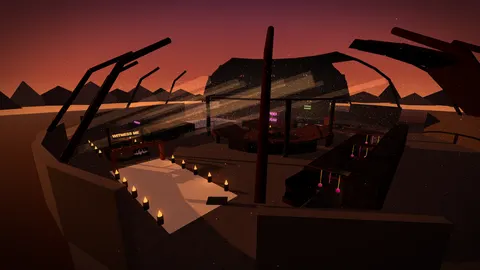
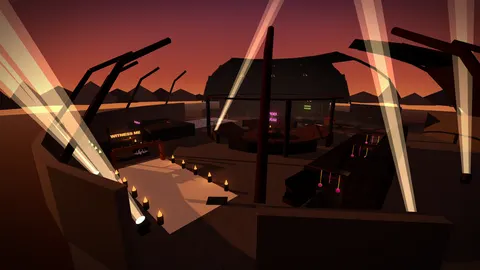
Default feel = the owner's tuning (wobble 70 %, 220 ms, 10 % on movement); credits as a scrolling ticker; Murderdome art pass: nothing floats (flag, steering column, tire ring chains, signs), soft dust motes; tools/floatcheck.js
Claude-Session: https://claude.ai/code/session_013cEUyKFWfXQwnZSdKsgxWE

diff --git a/src/maps.js b/src/maps.js
@@ -1213,7 +1213,7 @@
       for (let z = z0; z <= z1; z += 1.2) box(o, v3(GX, 3.9, z), v3(0.5, 0.1, 0.05), 'scrap');   // seat frames welded on top
       surf(o, HARD); o.obstacle = { a: v3(GX, 0, z0), b: v3(GX, 0, z1), under: 3.2, over: 3.64 };
       O('Blood Oath Gantry opening', 'gap', { gap: { c: v3(GX, 1.6, 33), n: v3(1, 0, 0), hu: 3.5, hv: 1.54, u: v3(0, 0, 1) } });
-      const fl = O('Skull Flag', 'deco'); fl.vis.push({ shape: 'sign', c: v3(GX + 0.65, 2.6, 33), w: 2.4, h: 1.2, ry: Math.PI / 2, mat: 'skullFlag' }); }   // the Dirtbag FPV flag
+      const fl = O('Skull Flag', 'deco'); fl.vis.push({ shape: 'sign', c: v3(GX + 0.62, 2.62, 33), w: 2.4, h: 1.2, ry: Math.PI / 2, mat: 'skullFlag' }); for (const z of [31.85, 34.15]) pipe(fl, v3(GX + 0.6, 3.2, z), v3(GX + 0.63, 3.24, z), 0.015, 'rebar', { noCollide: true }); }   // the Dirtbag FPV flag, wired to the beam's face   // the Dirtbag FPV flag
     for (let x = -1; x <= 13; x += 3.5) for (const z of [28.6, 37.4]) barrel(x, z, z < 30 && (x === -1 || x === 9.5));
     zones.push({ shape: 'zone', mat: 'sand', c: v3(5, 0.006, 33), h: v3(10, 0, 4.5) });
 
@@ -1245,6 +1245,7 @@
         for (const s of [-1, 1]) box(cab, v3(x, (WY0 + WY1) / 2, Z + s * (WW + (wz - WW) / 2)), v3(0.06, (WY1 - WY0) / 2, (wz - WW) / 2), 'busYellow');
         O('War Rig Cab window', 'gap', { gap: { c: v3(x, (WY0 + WY1) / 2, Z), n: v3(1, 0, 0), hu: WW - 0.07, hv: (WY1 - WY0) / 2 - 0.07, u: v3(0, 0, 1) } }); }
       surf(cab, HARD); ring('Steering Wheel Gate', v3(7.7, 2.15, Z), 0.5, v3(1, 0, 0), 0.04, 'carBlack', HARD);
+      { const sc = O('Steering Column', 'deco'); pipe(sc, v3(7.7, 1.66, Z), v3(7.95, 0.98, Z), 0.045, 'carBlack', { noSurvey: true }); surf(sc, HARD); }
       const land = O('Landing Sand', 'deco'); box(land, v3(2.2, 0.012, Z), v3(2.6, 0.012, 2.6), 'sand'); surf(land, SAND);
       const pl = O('Scrap Plates', 'deco'); for (const [x, z] of [[-1.2, Z - 2.4], [-0.6, Z + 2.2], [5.6, Z + 2.8], [-1.6, Z]]) box(pl, v3(x, 0.015, z), v3(0.9, 0.015, 0.7), 'plate', rnd() * 3); surf(pl, PLATE);
       zones.push({ shape: 'zone', mat: 'dirt', c: v3(12, 0.006, Z), h: v3(12, 0, 4) }); }
@@ -1264,7 +1265,7 @@
         box(o, v3(-16.5, 1.35, Z0 - 2.65), v3(0.36, 0.45, 0.06), 'carBlack'); o.vis.push({ shape: 'sign', c: v3(-16.5, 1.35, Z0 - 2.58), w: 0.66, h: 0.5, ry: 0, mat: 'signCasino', glow: true }); }
       { const o = O('Dead Fridges', 'deco'); box(o, v3(-19, 0.9, Z0 + 0.2), v3(0.4, 0.9, 0.36), 'fridge', 0.2); box(o, v3(-20.4, 0.38, Z0 - 1.4), v3(0.9, 0.38, 0.36), 'fridge', 1.1); surf(o, HARD); }
       for (const [x, z, h] of [[0, Z0 - 0.5, 1.6], [-4, Z0 - 0.5, 0.9], [-9, Z0 - 5, 1.7], [-13, Z0 - 0.4, 1.0], [-17.5, Z0 - 6, 1.5]]) { const o = O('Bandana Flag', 'deco'); pipe(o, v3(x, 0, z), v3(x, h, z), 0.02, 'oldWood'); o.vis.push({ shape: 'sign', c: v3(x + 0.26, h - 0.18, z), w: 0.5, h: 0.32, ry: 0, mat: 'bandana' }); }
-      const sg = O('Dirtbag Forever Sign', 'deco'); sign(sg, v3(-8, 4.6, -40.6), 4.2, 2.1, 0, 'signDirtbag', false);
+      const sg = O('Dirtbag Forever Sign', 'deco'); sign(sg, v3(-8, 4.6, -40.6), 4.2, 2.1, 0, 'signDirtbag', false); for (const x of [-10.02, -5.98]) pipe(sg, v3(x, 0, -40.7), v3(x, 5.75, -40.7), 0.07, 'rustRed'); box(sg, v3(-8, 3.5, -40.7), v3(2.1, 0.05, 0.05), 'rustRed', 0, 0, 0, { noSurvey: true });
       lamp('Lounge Neon', v3(-8, 4, -38.5), 0xd8ff8a, 9, 18); lamp('Lounge Lamp', v3(-12, 2.6, -29), 0xffb070, 7, 12);
       zones.push({ shape: 'zone', mat: 'oilCarpet', c: v3(-9, 0.006, Z0 - 4), h: v3(12, 0, 6) }); }
 
@@ -1320,19 +1321,20 @@
       O('Pit Exit Door', 'gap', { gap: { c: v3(DX, DH / 2, Z1), n: v3(0, 0, 1), hu: DW - 0.06, hv: DH / 2 - 0.06, u: v3(1, 0, 0) } });
       { const o = O('Deck Columns', 'pole'); for (const [x, z] of [[-28, 17], [-20, 17], [-20, 23.5]]) pipe(o, v3(x, 0, z), v3(x, Y - t, z), 0.16, 'rustRed'); }
       ring('Pit Tire Ring 1', v3(-26.5, 1.25, HZ), 0.5, v3(1, 0, 0), 0.11, 'tire', SOFT); ring('Pit Tire Ring 2', v3(-29.5, 1.25, 21.5), 0.5, v3(0, 0, 1), 0.11, 'tire', SOFT);
+      { const o = O('Tire Ring Chains', 'deco'); for (const [x, z, ux, uz] of [[-26.5, HZ, 0, 1], [-29.5, 21.5, 1, 0]]) for (const s of [-1, 1]) pipe(o, v3(x + ux * s * 0.32, 1.25 + 0.38, z + uz * s * 0.32), v3(x + ux * s * 0.42, Y - t, z + uz * s * 0.42), 0.018, 'chain', { noSurvey: true }); surf(o, SOFT); }
       { const o = O('Swinging Tires', 'deco'); [[DX - 0.6, 22.8], [DX + 0.6, 23.6], [DX - 0.5, 24.4], [DX + 0.5, 25.1]].forEach(([x, z]) => { pipe(o, v3(x, Y - t, z), v3(x, 1.75, z), 0.02, 'chain', { noSurvey: true }); pipe(o, v3(x - 0.15, 1.4, z), v3(x + 0.15, 1.4, z), 0.36, 'tire'); }); surf(o, SOFT); }
       { const o = O('Hanging Wires', 'deco'); for (let i = 0; i < 9; i++) { const x = X0 + 1 + rnd() * (X1 - X0 - 2), z = Z0 + 1 + rnd() * (Z1 - Z0 - 2); if (Math.hypot(x - HX, z - HZ) < 2) continue; pipe(o, v3(x, Y - t, z), v3(x + (rnd() - 0.5) * 0.3, Y - 0.9 - rnd() * 0.8, z), 0.012, 'carBlack', { noSurvey: true }); } surf(o, SOFT); }
       { const o = O('Emergency Lights', 'deco'); for (const [x, z] of [[X0 + 0.2, 18], [X1 - 0.2, 22], [-24, Z0 + 0.2]]) box(o, v3(x, 2.6, z), v3(0.14, 0.1, 0.14), 'emergency', 0, 0, 0, { noCollide: true, glow: true }); }
       lamp('Pit Emergency Light', v3(-27, 2.9, 18), 0xff3a22, 10, 13); lamp('Pit Emergency Light', v3(-20, 2.9, 23), 0xff3a22, 10, 13);
-      { const o = O('Sparks', 'deco'); for (let i = 0; i < 12; i++) box(o, v3(X1 - 0.3, 0.3 + rnd() * 1.2, 15 + rnd() * 2), v3(0.02, 0.02, 0.02), 'fireCore', rnd() * 3, 0, 0, { noCollide: true, glow: true }); }
-      const sg = O("Sugar's Pit Sign", 'deco'); sign(sg, v3(-24, Y + 1.0, Z1 + 0.2), 4.4, 1.1, 0, 'signSugar', false); pipe(sg, v3(-26.4, Y, Z1 + 0.2), v3(-26.4, Y + 1.6, Z1 + 0.2), 0.05, 'rebar'); pipe(sg, v3(-21.6, Y, Z1 + 0.2), v3(-21.6, Y + 1.6, Z1 + 0.2), 0.05, 'rebar'); }
+      { const o = O('Sparks', 'deco', { float: true }); for (let i = 0; i < 12; i++) box(o, v3(X1 - 0.3, 0.3 + rnd() * 1.2, 15 + rnd() * 2), v3(0.02, 0.02, 0.02), 'fireCore', rnd() * 3, 0, 0, { noCollide: true, glow: true }); }
+      const sg = O("Sugar's Pit Sign", 'deco'); sign(sg, v3(-24, Y + 1.0, Z1 + 0.2), 4.4, 1.1, 0, 'signSugar', false); pipe(sg, v3(-26.22, Y, Z1 + 0.2), v3(-26.22, Y + 1.6, Z1 + 0.2), 0.05, 'rebar'); pipe(sg, v3(-21.78, Y, Z1 + 0.2), v3(-21.78, Y + 1.6, Z1 + 0.2), 0.05, 'rebar'); }
 
     // ---- 8 Witness Me: out of the pit, a long drag east, slightly uphill, to the exhaust-stack finish, barrels both sides
     { const o = O('Witness Me Ramp', 'deco'); box(o, v3(-20, 0.36, 33), v3(7.2, 0.06, 3.2), 'plate', 0, 0, Math.atan2(0.7, 14.4), { noSurvey: true }); box(o, v3(-10.5, 0.36, 33), v3(2.6, 0.36, 3.2), 'plate'); surf(o, PLATE); }
     { const FX = -10, za = 30.2, zb = 35.8, Y0 = 0.72, YB = 3.5, o = O('Witness Me Finish', 'overunder'); for (const z of [za, zb]) { pipe(o, v3(FX, Y0, z), v3(FX, 5.8, z), 0.22, 'rustRed'); pipe(o, v3(FX, 5.6, z), v3(FX, 6.2, z), 0.26, 'carBlack'); }
       pipe(o, v3(FX, YB, za), v3(FX, YB, zb), 0.12, 'rebar'); surf(o, HARD); o.obstacle = { a: v3(FX, 0, za), b: v3(FX, 0, zb), under: YB - 0.12, over: YB + 0.12 };
       O('Witness Me Finish opening', 'gap', { gap: { c: v3(FX, (Y0 + YB - 0.12) / 2, 33), n: v3(1, 0, 0), hu: (zb - za) / 2 - 0.3, hv: (YB - 0.12 - Y0) / 2 - 0.06, u: v3(0, 0, 1) } });
-      sign(o, v3(FX, 4.5, 33), 4.6, 1.1, -Math.PI / 2, 'signWitness'); lamp('Finish Glow', v3(FX + 0.5, 4.4, 33), 0xffa040, 6, 12); }
+      sign(o, v3(FX, 4.5, 33), (zb - za) - 0.4, 1.1, -Math.PI / 2, 'signWitness'); lamp('Finish Glow', v3(FX + 0.5, 4.4, 33), 0xffa040, 6, 12); }
     for (let x = -28; x <= -14; x += 3.5) for (const z of [29.2, 36.8]) barrel(x, z, false);
     zones.push({ shape: 'zone', mat: 'crackedConcrete', c: v3(0, 0.004, 0), h: v3(RW, 0, RW) });
     zones.unshift(zones.pop());   // the cracked floor first, the patches on top of it

diff --git a/src/menus.js b/src/menus.js
@@ -214,6 +214,12 @@ addEventListener('pointerdown', e => { if (e.target.id === 'gPreview') { gPrev.d
 addEventListener('pointermove', e => { const d = gPrev.drag; if (!d) return; gPrev.yaw = d.yaw - (e.clientX - d.x) * 0.01; gPrev.pitch = Math.max(-1.3, Math.min(1.4, d.pitch + (e.clientY - d.y) * 0.01)); });
 addEventListener('pointerup', () => { gPrev.drag = null; });
 window.__pwGarage = gPrev;
+// The credits on the main menu: one line that scrolls (owner, 2026-11-18: room to grow). The text is doubled so the loop
+// has no seam, and the speed stays the same however long the credits get (about 40 px a second).
+function creditsTicker() { const tr = $('#menuThanks .tkTrack'); if (!tr || tr.dataset.on) return; const it = tr.querySelector('.tkItem'); if (!it) return;
+  tr.dataset.on = '1'; tr.appendChild(it.cloneNode(true)).setAttribute('aria-hidden', 'true');
+  const set = () => { const w = it.getBoundingClientRect().width; if (w > 0) tr.style.setProperty('--tkDur', Math.max(15, w / 40).toFixed(1) + 's'); }; set(); addEventListener('resize', set); setTimeout(set, 1500); }
+creditsTicker();
 // ============================================================ Advanced physics (a popup from the Garage)
 // Everything that shapes how the whoop flies beyond the parts and the PIDs, in tabs, with sliders and button rows rather
 // than drop-downs. The Betaflight tab uses Betaflight's own settings (src/sim.js FlightController; imported from a diff all
@@ -221,7 +227,7 @@ window.__pwGarage = gPrev;
 const ADV = { open: false, tab: 'feel' };
 // [tune key, name, min, max, step, shown = value × this, unit, what it does, default]
 const ADV_SL = {
-  wobble: [['shake', 'Wobble', 0, 4, 0.05, 100, '%', 'Air that is never still: the wobble a light whoop has in its own air. 0 = the old glassy-smooth sim; the default (225%) is fitted to a real 30000KV whoop\'s Blackbox logs', FEEL_DEF.shake],
+  wobble: [['shake', 'Wobble', 0, 4, 0.05, 100, '%', 'Air that is never still: the wobble a light whoop has in its own air. 0 = the old glassy-smooth sim; the default (70%) is the owner\'s own tuning; 225% matches a real 30000KV whoop\'s Blackbox logs', FEEL_DEF.shake],
     ['shakeTau', 'Wobble smoothness', 0.03, 0.4, 0.01, 1000, ' ms', 'How slowly the wobble changes: longer is a lazy float, shorter a quick shudder', FEEL_DEF.shakeTau],
     ['shakeMove', 'Wobble on movement', 0, 1, 0.1, 100, '%', '100%: the wobble comes with turns and speed and a still hover stays calm; 0%: the same wobble all the time', FEEL_DEF.shakeMove],
     ['loopDelayMs', 'Motor / ESC delay', 0, 6, 0.5, 1, ' ms', 'A real quad answers a few ms late (DShot, the ESC, the motor). More is softer but rings; the Feel Lab measured about 3 ms on a real whoop', FEEL_DEF.loopDelayMs],
@@ -264,8 +270,8 @@ function renderAdv() {
   if (ADV.tab === 'feel') h = `<p class="note">How the whoop behaves in the air, on top of your parts. 100% is the sim as built from the parts (Weight defaults to 90%: real whoops hover like that in their Blackbox logs); these change only how the physics feels, not the parts or the Garage figures.</p>
     ${FEEL.map(([k, name, help]) => { const v = Math.round((+tune[k] || (tune[k] === 0 ? 0 : 1)) * 100), [lo, hi] = S.FEEL_KEYS[k]; return `<label class="advS" title="${help}"><span>${name} <b id="gFeelV-${k}">${v}%</b></span><input type=range data-feel="${k}" min=${lo * 100} max=${hi * 100} step=5 value="${v}"></label>`; }).join('')}
     <div class="row"><button data-advreset="feel" class="ghost">Feel back to the defaults</button></div>`;
-  if (ADV.tab === 'wobble') h = `<p class="note">The life a real whoop has in the air, fitted from real Blackbox logs (Tools &amp; labs → Feel Lab). The defaults are fitted to a real 30000KV whoop: its wobble when moving, its lag (no extra delay needed). A still hover stays calm.</p>
-    ${ADV_SL.wobble.map(advSlider).join('')}<div class="row"><button data-advreset="wobble" class="ghost">Back to the defaults</button><button data-advpreset="logfit" class="ghost" title="The owner's Air2 build answered about 4 ms later than the 30000KV whoop: the same wobble with 3 ms of motor / ESC delay">Laggier whoop (+3 ms)</button><button data-advpreset="calm" class="ghost" title="The old smooth sim with a hint of wobble">Calm</button></div>`;
+  if (ADV.tab === 'wobble') h = `<p class="note">The life a real whoop has in the air, fitted from real Blackbox logs (Tools &amp; labs → Feel Lab). The defaults are the owner\'s own tuning. "Real 30000KV whoop" is what a real whoop\'s Blackbox logs measured: its wobble when moving, its lag (no extra delay needed).</p>
+    ${ADV_SL.wobble.map(advSlider).join('')}<div class="row"><button data-advreset="wobble" class="ghost">Back to the defaults</button><button data-advpreset="fit30k" class="ghost" title="Fitted to a real 30000KV whoop's Blackbox logs: wobble 225 % at 100 ms, on movement">Real 30000KV whoop</button><button data-advpreset="logfit" class="ghost" title="The owner's Air2 build answered about 4 ms later than the 30000KV whoop: the same wobble with 3 ms of motor / ESC delay">Laggier whoop (+3 ms)</button><button data-advpreset="calm" class="ghost" title="The old smooth sim with a hint of wobble">Calm</button></div>`;
   if (ADV.tab === 'bf') h = `<p class="note">The flight controller's filters, as Betaflight has them. Lower cutoffs are smoother and laggier; a dynamic lowpass opens with the throttle. The sim has no motor noise to filter, so here they shape only the lag and the softness. Untouched: one 180 Hz gyro filter and one 90 Hz D-term filter, the sim as it always was.</p>
     ${ADV_SL.filters.slice(0, 3).map(advSlider).join('')}
     <div class="advPair"><span>Gyro lowpass 1 type</span>${advSeg('gyroLpfType', [['PT1', 'PT1'], ['PT2', 'PT2'], ['PT3', 'PT3'], ['BIQUAD', 'BIQUAD']], tune.gyroLpfType || 'PT1', 'gyro_lpf1_type')}</div>
@@ -300,7 +306,7 @@ document.addEventListener('click', e => {
   if (t.dataset.advset) { const k = t.dataset.advset, v = t.dataset.v; tune[k] = /^-?\d+(\.\d+)?$/.test(v) ? +v : v; saveTune(); renderAdv(); }
   if (t.dataset.advreset === 'feel') { for (const [k] of FEEL) tune[k] = 1; tune.weightFeel = WEIGHT_DEF; saveTune(); renderAdv(); }
   if (t.dataset.advreset === 'wobble') { Object.assign(tune, FEEL_DEF); saveTune(); renderAdv(); }
-  if (t.dataset.advpreset) { const p = t.dataset.advpreset; Object.assign(tune, p === 'bfstock' ? S.BF_STOCK : p === 'sim' ? S.BF_SIM : p === 'calm' ? FEEL3 : { ...FEEL_DEF, loopDelayMs: 3 }); saveTune(); renderAdv(); }
+  if (t.dataset.advpreset) { const p = t.dataset.advpreset; Object.assign(tune, p === 'bfstock' ? S.BF_STOCK : p === 'sim' ? S.BF_SIM : p === 'calm' ? FEEL3 : p === 'fit30k' ? FEEL_FIT : { ...FEEL_FIT, loopDelayMs: 3 }); saveTune(); renderAdv(); }
 });
 document.addEventListener('input', e => { const t = e.target, k = t.dataset && t.dataset.adv; if (!k) return;
   const d = [...ADV_SL.wobble, ...ADV_SL.filters, ...ADV_SL.extras].find(x => x[0] === k) || { gyroLpfExpo: [k, '', 0, 0, 0, 1, '', '', 5], dtermLpfExpo: [k, '', 0, 0, 0, 1, '', '', 5], rcDelayMs: [k, '', 0, 0, 0, 1, ' ms', '', 0], rcSmoothFactor: [k, '', 0, 0, 0, 1, '', '', 30] }[k];

diff --git a/tools/floatcheck.js b/tools/floatcheck.js
@@ -1,0 +1,54 @@
+// Floating things: every drawn piece of a map is boxed (rotated boxes by their corners, pipes by their ends and radius),
+// pieces that touch (within --tol, default 4 cm) are linked, and every linked group that never reaches the ground (or the
+// map's ground height) is listed: "floating". Glow pieces, signs and decals ride on whatever they sit against, so they are
+// linked like the rest but never hold a group up on their own. Also lists boxes that sink deep into the ground.
+//   node tools/floatcheck.js [map…] [--tol=0.04] [--all]
+// Intended floaters (beams of light, smoke, hallucinations, dust) carry `float: true` on the piece or `o.float` on the object.
+const path = require('path');
+require(path.join(__dirname, '..', 'src', 'tricks.js')); require(path.join(__dirname, '..', 'src', 'sim.js')); require(path.join(__dirname, '..', 'src', 'maps.js'));
+const S = globalThis.Sim, args = process.argv.slice(2), opt = k => { const a = args.find(x => x.startsWith(`--${k}=`)); return a ? a.split('=')[1] : null; };
+const TOL = +(opt('tol') ?? 0.04), maps = args.filter(a => !a.startsWith('--')), ids = maps.length ? maps : Object.keys(S.MAPS);
+// R = Ry * Rx * Rz, as makeBox (sim.js) and visMesh ('YXZ') both rotate boxes: Z first, then X, then Y
+function rotP(p, e) {
+  const [rx, ry, rz] = e || [0, 0, 0]; let { x, y, z } = p;
+  let c = Math.cos(rz), s = Math.sin(rz); [x, y] = [x * c - y * s, x * s + y * c];
+  c = Math.cos(rx); s = Math.sin(rx); [y, z] = [y * c - z * s, y * s + z * c];
+  c = Math.cos(ry); s = Math.sin(ry); [x, z] = [x * c + z * s, -x * s + z * c];
+  return { x, y, z };
+}
+function boxOf(v) {
+  const b = { x0: 1e9, y0: 1e9, z0: 1e9, x1: -1e9, y1: -1e9, z1: -1e9 }, add = p => { b.x0 = Math.min(b.x0, p.x); b.y0 = Math.min(b.y0, p.y); b.z0 = Math.min(b.z0, p.z); b.x1 = Math.max(b.x1, p.x); b.y1 = Math.max(b.y1, p.y); b.z1 = Math.max(b.z1, p.z); };
+  if (v.shape === 'box') { for (const sx of [-1, 1]) for (const sy of [-1, 1]) for (const sz of [-1, 1]) { const q = rotP({ x: sx * v.h.x, y: sy * v.h.y, z: sz * v.h.z }, v.euler); add({ x: v.c.x + q.x, y: v.c.y + q.y, z: v.c.z + q.z }); } }
+  else if (v.shape === 'pipe') { const r = v.r || 0.02; for (const p of [v.a, v.b]) { add({ x: p.x - r, y: p.y - r, z: p.z - r }); add({ x: p.x + r, y: p.y + r, z: p.z + r }); } }
+  else if (v.shape === 'sphere') { add({ x: v.c.x - v.r, y: v.c.y - v.r, z: v.c.z - v.r }); add({ x: v.c.x + v.r, y: v.c.y + v.r, z: v.c.z + v.r }); }
+  else if (v.shape === 'disc') { add({ x: v.c.x - v.r, y: v.c.y - v.th, z: v.c.z - v.r }); add({ x: v.c.x + v.r, y: v.c.y + v.th, z: v.c.z + v.r }); }
+  else if (v.shape === 'sign') { const hw = v.w / 2, hh = v.h / 2, c = Math.cos(v.ry || 0), s = Math.sin(v.ry || 0); for (const sx of [-1, 1]) for (const sy of [-1, 1]) add({ x: v.c.x + sx * hw * c, y: v.c.y + sy * hh, z: v.c.z - sx * hw * s }); }
+  else if (v.c) { const r = v.r || v.size || 0.1; add({ x: v.c.x - r, y: v.c.y - r, z: v.c.z - r }); add({ x: v.c.x + r, y: v.c.y + r, z: v.c.z + r }); }
+  else return null;
+  return b;
+}
+const touch = (a, b) => a.x0 <= b.x1 + TOL && b.x0 <= a.x1 + TOL && a.y0 <= b.y1 + TOL && b.y0 <= a.y1 + TOL && a.z0 <= b.z1 + TOL && b.z0 <= a.z1 + TOL;
+let total = 0;
+for (const id of ids) {
+  const M = S.MAPS[id]; if (!M) { console.log('no map', id); continue; }
+  const w = M.build(), gY = w.groundY || 0, P = [];
+  for (const o of w.objs) { if (o.kind === 'edge' || o.removed || o.float) continue; for (const v of o.vis) { if (v.float) continue; const b = boxOf(v); if (b) P.push({ o, v, b, weak: !!(v.glow || v.shape === 'sign') }); } }
+  // a grid over x/z so touching is checked only among neighbours
+  const G = new Map(), cell = 2, key = (i, k) => i + ',' + k;
+  P.forEach((p, n) => { for (let i = Math.floor(p.b.x0 / cell); i <= Math.floor(p.b.x1 / cell); i++) for (let k = Math.floor(p.b.z0 / cell); k <= Math.floor(p.b.z1 / cell); k++) { const q = key(i, k); if (!G.has(q)) G.set(q, []); G.get(q).push(n); } });
+  const par = P.map((_, i) => i), find = i => { while (par[i] !== i) i = par[i] = par[par[i]]; return i; };
+  const ground = P.map(p => !p.weak && p.b.y0 <= gY + TOL);
+  for (const list of G.values()) for (let a = 0; a < list.length; a++) for (let b = a + 1; b < list.length; b++) { const i = list[a], j = list[b]; if (find(i) === find(j)) continue; if (P[i].weak && P[j].weak) continue; if (touch(P[i].b, P[j].b)) par[find(i)] = find(j); }
+  const held = new Set(); P.forEach((p, i) => { if (ground[i]) held.add(find(i)); });
+  const groups = new Map(); P.forEach((p, i) => { const r = find(i); if (held.has(r)) return; if (!groups.has(r)) groups.set(r, []); groups.get(r).push(p); });
+  const out = [...groups.values()].map(g => { const b = g.reduce((m, p) => ({ x0: Math.min(m.x0, p.b.x0), y0: Math.min(m.y0, p.b.y0), z0: Math.min(m.z0, p.b.z0), x1: Math.max(m.x1, p.b.x1), y1: Math.max(m.y1, p.b.y1), z1: Math.max(m.z1, p.b.z1) }), { x0: 1e9, y0: 1e9, z0: 1e9, x1: -1e9, y1: -1e9, z1: -1e9 });
+    const names = [...new Set(g.map(p => p.o.name))]; return { names, n: g.length, b, weak: g.every(p => p.weak) }; }).sort((a, b) => a.b.y0 - b.b.y0);
+  // the drop: how far below each floating group the nearest thing under it is
+  const below = g => { let best = g.b.y0 - gY, what = 'ground'; for (const p of P) { const b = p.b; if (b.x1 < g.b.x0 || b.x0 > g.b.x1 || b.z1 < g.b.z0 || b.z0 > g.b.z1 || b.y1 > g.b.y0 + TOL) continue; const d = g.b.y0 - b.y1; if (d < best) { best = d; what = p.o.name; } } return [best, what]; };
+  const sunk = P.filter(p => p.v.shape === 'box' && !p.weak && p.b.y0 < gY - 0.4 && p.b.y1 > gY + 0.2 && p.b.y1 - p.b.y0 > 1.5).map(p => p.o.name);
+  console.log(`=== ${id}: ${P.length} drawn pieces, ${out.length} floating group(s)${out.filter(g => !g.weak).length !== out.length ? ` (${out.filter(g => g.weak).length} only signs / glow)` : ''}`);
+  for (const g of (args.includes('--all') ? out : out.filter(x => !x.weak)).slice(0, 200)) { const [d, what] = below(g);
+    console.log(`  ${g.names.slice(0, 3).join(', ').padEnd(44).slice(0, 44)} ${String(g.n).padStart(3)} pc  x ${g.b.x0.toFixed(1)}..${g.b.x1.toFixed(1)} y ${g.b.y0.toFixed(2)}..${g.b.y1.toFixed(2)} z ${g.b.z0.toFixed(1)}..${g.b.z1.toFixed(1)}  ${d.toFixed(2)} m over ${what}`); }
+  if (sunk.length) console.log('  deep in the ground:', [...new Set(sunk)].join(', '));
+  total += out.length;
+}

diff --git a/src/index.template.html b/src/index.template.html
@@ -241,7 +241,10 @@ details.optExplain > summary { cursor: pointer; color: #cfc6b4; } details.optExp
 #mainMenu .menuBtns { display: grid; grid-template-columns: minmax(0, 1fr) minmax(0, 1fr); gap: 8px 12px; max-width: none; } #mainMenu .menuBtns > button { padding-top: 9px; padding-bottom: 9px; white-space: nowrap; } #mainMenu .menuBtns > .primary { grid-column: 1 / -1; } #mainMenu .menuBtns > button { margin: 0; width: 100%; }
 .rpRow { margin: 4px 0; } .rpRow input { flex: 1; min-width: 0; }
 #telAsk { margin: 0 0 12px; padding: 10px 12px; background: #0e0d0c; border: 1px solid #2c2925; border-left: 4px solid var(--cyan); font: 13px/1.5 var(--mono); color: #cfc6b4; } #telAsk p { margin: 0 0 8px; } #telAsk b { color: #fff; }
-#menuThanks { margin: 0 0 12px; padding: 6px 0; border-top: 1px solid #fff2; border-bottom: 1px solid #fff2; font: 12px/1.5 var(--mono); color: #cfc6b4; text-align: center; } #menuThanks b { color: #ffd34d; font-weight: 600; }
+#menuThanks { margin: 0 0 10px; padding: 3px 0; border-top: 1px solid #fff2; border-bottom: 1px solid #fff2; font: 12px/1.4 var(--mono); color: #cfc6b4; overflow: hidden; white-space: nowrap; -webkit-mask-image: linear-gradient(90deg, transparent, #000 6%, #000 94%, transparent); mask-image: linear-gradient(90deg, transparent, #000 6%, #000 94%, transparent); } #menuThanks b { color: #ffd34d; font-weight: 600; }
+#menuThanks .tkTrack { display: inline-flex; animation: tkScroll var(--tkDur, 40s) linear infinite; will-change: transform; } #menuThanks .tkItem { padding-right: 2em; } #menuThanks:hover .tkTrack { animation-play-state: paused; }
+@keyframes tkScroll { from { transform: translateX(0); } to { transform: translateX(-50%); } }
+@media (prefers-reduced-motion: reduce) { #menuThanks { overflow-x: auto; -webkit-mask-image: none; mask-image: none; } #menuThanks .tkTrack { animation: none; } }
 
 body.meOn #music { display: none !important; }
 #mapEditUI { position: absolute; inset: 0; pointer-events: none; } #mapEditUI > * { pointer-events: auto; }
@@ -403,7 +406,7 @@ setTimeout(() => window.__pwBootFail(''), 12000);
 <div id="mainMenu" class="screen hide"><div class="panel" style="max-width:560px">
   <h1 class="logo">Open Pro<br>Whooper</h1><div class="logoSub">PROJECT</div>
   <p class="sub">tiny whoop freestyle · <span id="menuMap">the playground</span> · v0.1 · best <b id="best">0</b></p>
-  <p id="menuThanks">Thanks and credit to <b>Tyrantt</b> · <b>Pro Whooper</b> · <b>IGOW</b> · <b>RaceGOW</b> · <b>Skittles</b> · <b>Infinity Loops</b> · and <b>the Whoop Community!</b><br>Music: <b>8BiT_</b> · Air65 frame: <b>BetaFPV</b> · Beast Brain canopy: <b>_tcmore</b> · The Murderdome: <b>Dirtbag FPV</b> (their logo on the start flag) and <b>Spider Sugar FPV</b></p>
+  <div id="menuThanks" title="Credits: hover to pause"><div class="tkTrack"><span class="tkItem">Thanks and credit to <b>Tyrantt</b> · <b>Pro Whooper</b> · <b>IGOW</b> · <b>RaceGOW</b> · <b>Skittles</b> · <b>Infinity Loops</b> · and <b>the Whoop Community!</b> ✦ Music: <b>8BiT_</b> · Air65 frame: <b>BetaFPV</b> · Beast Brain canopy: <b>_tcmore</b> · The Murderdome: <b>Dirtbag FPV</b> (their logo on the start flag) and <b>Spider Sugar FPV</b> ✦ </span></div></div>
   <p id="menuPilot" class="sub" style="margin-top:-6px"></p>
   <p id="quickGoal" class="note" style="margin:-4px 0 8px"></p>
   <div class="menuBtns">

diff --git a/src/game.js b/src/game.js
@@ -19,9 +19,13 @@ if (!store.get('feel3', false)) { if (tune.shake == null || (tune.shake === 1 &&
 // wobble 2.25 at 0.1 s on movement gives its 2-20 Hz wobble (sim 6.5 / 7.2 °/s, real 8.7 / 6.5) and tracking error; its lag
 // (7.7 / 7.8 ms) needs no extra delay; it hovers like 0.9 of the build's weight. Pilots still on FEEL3 (or the first fit) get
 // these once; anyone who moved a slider keeps their own.
-const FEEL_DEF = { shake: 2.25, shakeTau: 0.1, shakeMove: 1, loopDelayMs: 0, camBuzz: 0 }, WEIGHT_DEF = 0.9;
+const FEEL_FIT = { shake: 2.25, shakeTau: 0.1, shakeMove: 1, loopDelayMs: 0, camBuzz: 0 }, WEIGHT_DEF = 0.9;
 if (!store.get('feel4', false)) { const on3 = Object.entries(FEEL3).every(([k, v]) => tune[k] === v);
-  if (on3) Object.assign(tune, FEEL_DEF); if (tune.weightFeel == null || tune.weightFeel === 1) tune.weightFeel = WEIGHT_DEF; store.set('feel4', true); }
+  if (on3) Object.assign(tune, FEEL_FIT); if (tune.weightFeel == null || tune.weightFeel === 1) tune.weightFeel = WEIGHT_DEF; store.set('feel4', true); }
+// Owner, 2026-11-18, after tuning it himself: wobble 70 %, 220 ms, 10 % on movement (so most of it is there all the time), no
+// delay, no buzz. This is the default; pilots still on the log fit (FEEL_FIT) get it once.
+const FEEL_DEF = { shake: 0.7, shakeTau: 0.22, shakeMove: 0.1, loopDelayMs: 0, camBuzz: 0 };
+if (!store.get('feel5', false)) { if (Object.entries(FEEL_FIT).every(([k, v]) => tune[k] === v)) Object.assign(tune, FEEL_DEF); store.set('feel5', true); }
 for (const [k, v] of Object.entries(FEEL_DEF)) if (tune[k] == null) tune[k] = v;
 // rates v2 (150/680/0.5): saved tunes still on the old defaults get the new ones; rates the pilot changed are kept
 (() => { const OLD = { roll: [200, 900, 0.4], pitch: [200, 900, 0.4], yaw: [180, 700, 0.3] }, d = S.defaultTune().rates;

diff --git a/src/worldview.js b/src/worldview.js
@@ -503,7 +503,9 @@ function duskBackdrop() {
   // dust hanging in the air (catches the light), drifting
   const N = 2600, pos = new Float32Array(N * 3); for (let i = 0; i < N; i++) { const a = rnd() * Math.PI * 2, r = Math.sqrt(rnd()) * 46; pos[i * 3] = Math.cos(a) * r; pos[i * 3 + 1] = rnd() * 16; pos[i * 3 + 2] = Math.sin(a) * r; }
   const pg = new THREE.BufferGeometry(); pg.setAttribute('position', new THREE.BufferAttribute(pos, 3));
-  DUSK.dust = new THREE.Points(pg, new THREE.PointsMaterial({ color: 0xffc890, size: 0.05, transparent: true, opacity: 0.55, depthWrite: false, blending: THREE.AdditiveBlending })); DUSK.dust.frustumCulled = false; playRoot.add(DUSK.dust);
+  const moteTex = (() => { const c = document.createElement('canvas'); c.width = c.height = 32; const g = c.getContext('2d'), gr = g.createRadialGradient(16, 16, 0, 16, 16, 16); gr.addColorStop(0, 'rgba(255,255,255,1)'); gr.addColorStop(0.35, 'rgba(255,255,255,0.45)'); gr.addColorStop(1, 'rgba(255,255,255,0)'); g.fillStyle = gr; g.fillRect(0, 0, 32, 32); return new THREE.CanvasTexture(c); })();
+  // a soft round mote, not a square (a mote right by the lens used to draw as a big grey tile)
+  DUSK.dust = new THREE.Points(pg, new THREE.PointsMaterial({ color: 0xffc890, size: 0.035, map: moteTex, transparent: true, opacity: 0.5, depthWrite: false, blending: THREE.AdditiveBlending })); DUSK.dust.frustumCulled = false; playRoot.add(DUSK.dust);
 }
 function duskTick(dt) {
   DUSK.t += dt; const t = DUSK.t, f = 0.82 + 0.18 * Math.sin(t * 17) * Math.sin(t * 5.3 + 1);

diff --git a/CLAUDE.md b/CLAUDE.md
@@ -81,6 +81,8 @@ real vs 3-4 sim; the joint fit again picks 3 ms and shake 0.7. Then the owner: "
 `WEIGHT_DEF` in game.js): wobble 2.25 at `shakeTau` 0.1 s, on movement (sim 6.5 / 7.2 °/s 2-20 Hz, real 8.7 / 6.5; tracking
 error 5.3 / 4.8 % vs 7.6 / 6), no loop delay (lag 8.1 / 7.8 vs 7.7 / 7.8 ms), Weight 90 % (hover 37 % real vs 39 % sim).
 Pilots still on FEEL3 get them once (`store 'feel4'`), Weight 100 % becomes 90 % once; the physics (Node) is unchanged.
+That fit is now `FEEL_FIT` (preset "Real 30000KV whoop"): **the default `FEEL_DEF` is the owner's own tuning** (shake 0.7,
+`shakeTau` 0.22, `shakeMove` 0.1, no delay, no buzz; pilots still on FEEL_FIT get it once, `store 'feel5'`).
 Presets in Wobble and lag: "Laggier whoop (+3 ms)" (the owner's Air2), "Calm" (= FEEL3).
 
 ## Feel Lab: the sim's feel fitted to real Blackbox logs (src/feelfit.js, tools/feelfit.js, src/feellab.js; 2026-11-18)
@@ -468,6 +470,8 @@ Lint before shipping: `tools/lint.eslintrc.json` (concatenate the game files in 
 "never used" variable still needs a grep for assignments.
 
 ## Review list: picking, combos, deleting
+The main menu's credits are one scrolling line (`#menuThanks .tkTrack`, `creditsTicker` in menus.js: text doubled for a seamless
+loop, ~40 px/s whatever its length, pauses on hover, still for prefers-reduced-motion). Add credits inside `.tkItem`.
 Every list of trick names a pilot picks from while labelling (SKITTLES review, Quick check, Video Review, Blackbox Replay,
 Judge the Bot, Pause & Ask, Trick Calibration) is alphabetical (`abcSort` in game.js; owner, 2026-11-18).
 List rows are clickable (`recapPick`: click, Ctrl-click, Shift-click range in time order; `recap.multi`). "Combo" gives
@@ -723,6 +727,13 @@ neon short-circuits, emergency blink, oil sheen, dust). The start flag is the Di
 flat textured plane) is new in `visMesh`. 13 real lights (Map lights Auto drops to Few on slow machines). Not in (static
 world): swaying gates, destructible props, confetti, kill-cam pads, the dirtbag radio. test/maps.js covers it (the bot's
 Powerloops and Mattys on the gantry, the finish and a chain gate); `tools/map_thumbs.py --extra --only=md` saves check shots.
+
+**Art pass 1** (2026-11-18, owner: "tidy up floating things"): `tools/floatcheck.js [map…] [--all]` (new: every drawn piece boxed,
+touching pieces linked, groups that never reach the ground listed; signs / glow ride on what they touch; `float: true` on an
+object or piece = meant to float, e.g. Sparks). Fixed: the Dirtbag flag wired to the gantry beam's face, a steering column
+under the Steering Wheel Gate (below the hole), chains for both Pit Tire Rings, the pit sign's and finish banner's edges
+on their posts / stacks, two posts and a rail for DIRTBAG FOREVER; 0 floating groups. Dust motes are a soft round sprite
+(they drew as grey squares, big when near the lens).
 
 ## Map lights (Options → Graphics; `PERF.lights`, `store 'mapLights'`, `mapLightsBuild` in worldview.js)
 Map lamps are real point lights; three.js lights every pixel once per light, so More Warehouse's 18 made the game feel
